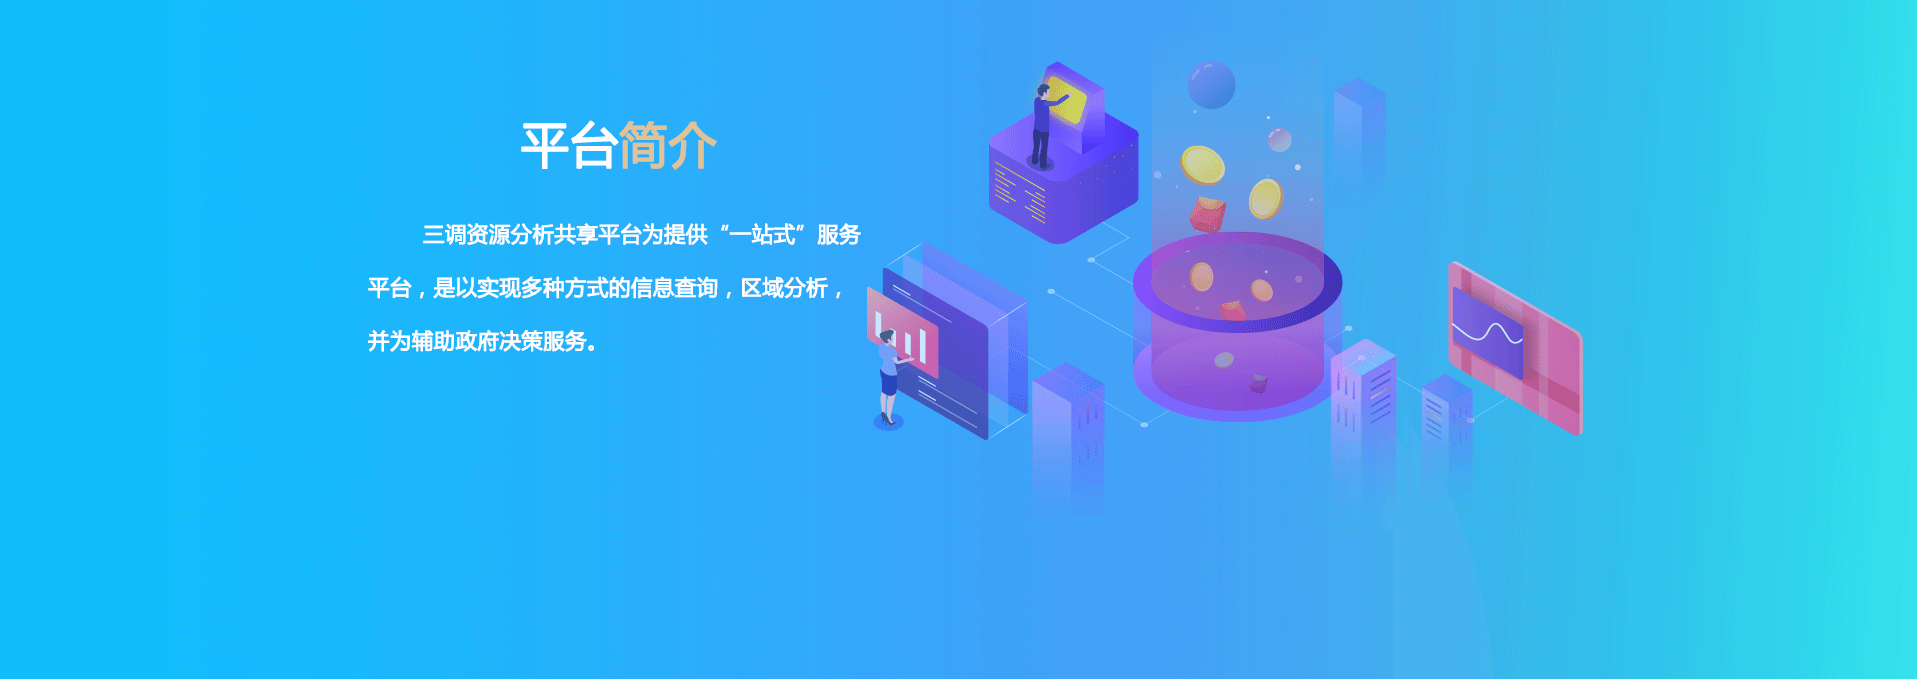
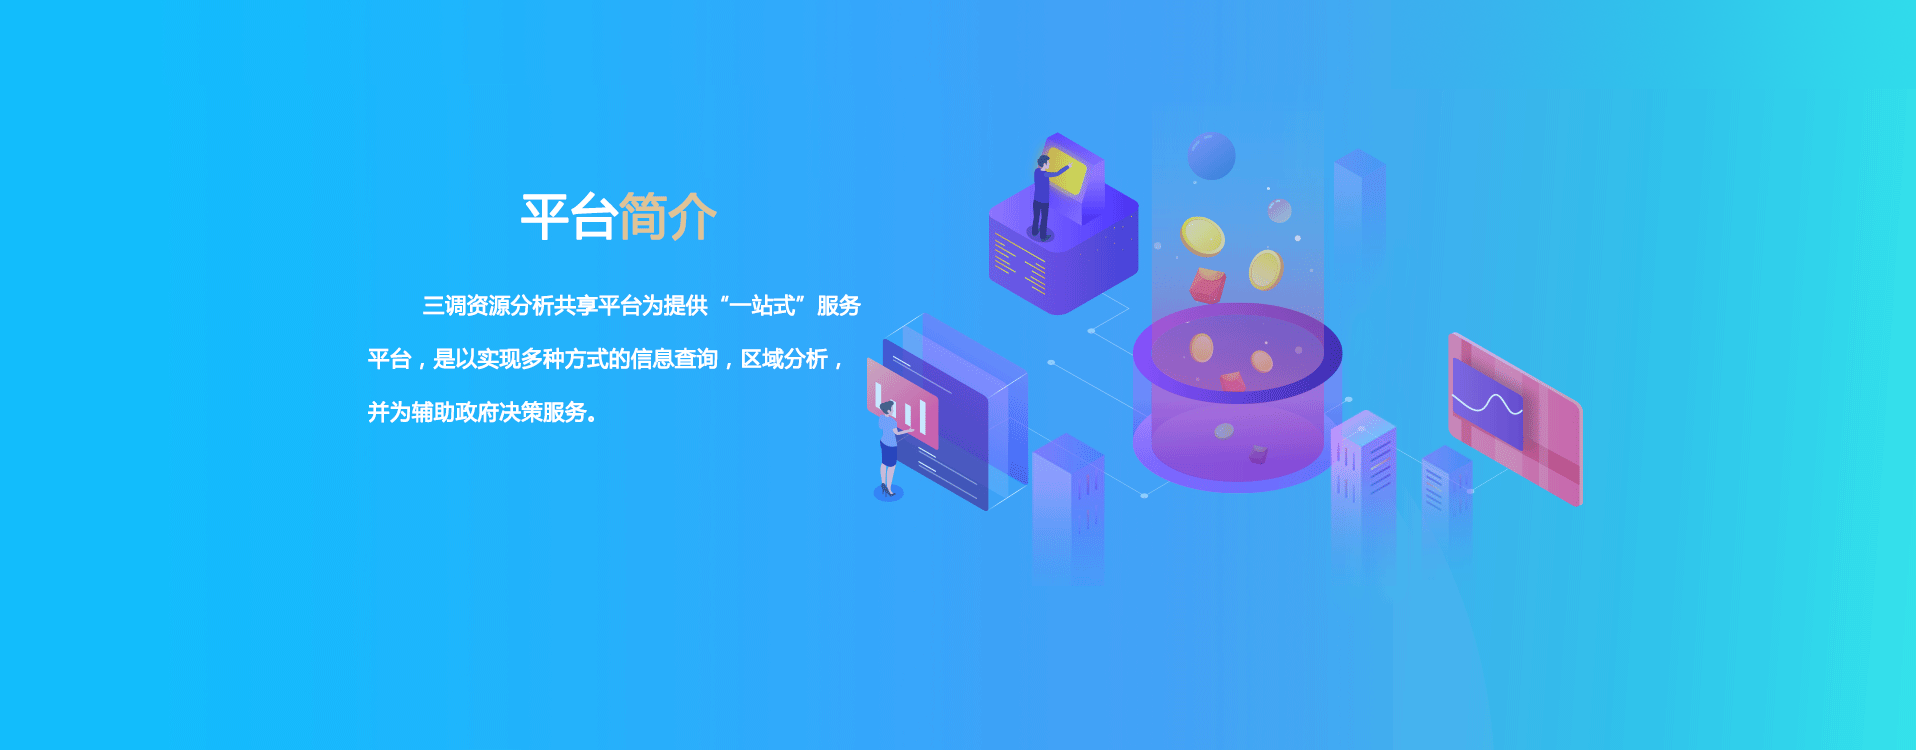
index

Changed region(s): [[0.1848, 0.0928, 0.8314, 0.6804], [0.9854, 0.0, 1.0, 1.0]]

diff --git a/jxx/js/index.js b/jxx/js/index.js
@@ -38,26 +38,6 @@ $("#login1").click(function () {
     window.location.href = "./login.html";
 });
 $("#time1").html(newTime());
-//获取新闻列表
-$.ajax({
-    url:config.newip + config.newport + '/arcgis/Other/GetNoticeList?istitle=1',
-    type: 'GET',
-    async: false,
-    success:function(data){
-       console.log(data.data);
-       let str='';
-       let tr = '';
-       for(let i=0,len=data.data.length;i<len;i++){
-         if(data.data[i].istitle == 0){
-            str+=`<div class="sum"><div class="data"><div class="day">${data.data[i].createtime.split('T')[0].split('-')[2]}</div><div class="year">${data.data[i].createtime.split('T')[0].split('-')[0]}-${data.data[i].createtime.split('T')[0].split('-')[1]}</div></div><img class="sum-img" src="./img/home__19.png" alt=""><div class="inf"><div class="inf-tilte">${data.data[i].title}</div><div class="inf-con">${data.data[i].content}</div></div></div>`;
-         }else{
-            tr+=`<img class='time-pc' src="./img/time.png"/>`;
-         }; 
-       };
-       $('#time-r').append(str);
-       $('#time-pc').append(tr);
-    }
-});
 $(".control").click(function(){
     if(jiancelogin()){
         if(this.className == "control one"){
@@ -97,9 +77,33 @@ $(".control").click(function(){
         window.location.href = "./login.html";
     }    
 });
+//获取新闻列表
+$.ajax({
+    url:config.newip + config.newport + '/arcgis/Other/GetNoticeList?istitle=1',
+    type: 'GET',
+    async: false,
+    success:function(data){
+       let str='';
+       let tr = '';
+       for(let i=0,len=data.data.length;i<len;i++){
+         if(data.data[i].titleimage == null){
+             data.data[i].titleimage = './img/time.png';
+         };
+         if(data.data[i].createtime == null){
+            data.data[i].createtime = '0000-00-00T00:00:00';
+         };
+         if(data.data[i].istitle == 0){
+            str+=`<div class="sum" Inhtml=''><div class="data"><div class="day">${data.data[i].createtime.split('T')[0].split('-')[2]}</div><div class="year">${data.data[i].createtime.split('T')[0].split('-')[0]}-${data.data[i].createtime.split('T')[0].split('-')[1]}</div></div><img class="sum-img" src="./img/home__19.png" alt=""><div class="inf"><div class="inf-tilte" title='${data.data[i].title}'>${data.data[i].title}</div><div class="inf-con" title='${data.data[i].content}'>${data.data[i].content}</div></div></div>`;
+         }else{
+            tr+=`<img class='time-pc' title='${data.data[i].title}' src="${data.data[i].titleimage}" inhtml=''/>`;
+         }; 
+       };
+       $('#time-r').append(str);
+       $('#time-pc').append(tr);
+    }
+});
 //头条新闻轮播图
 let len = $('.time-pc').length;
-console.log(len);
 let i = 0;
 $(".time-pc").eq(0).fadeIn(3000);
 setInterval(function(){
@@ -112,16 +116,24 @@ setInterval(function(){
         $(".time-pc").eq(i).fadeOut(3000);
         i=0;
     };
-},6000);
-
-
-
-
-
-
-
-
-
+},6005);
+//top轮播图
+$.ajax({
+    url:config.newip + config.newport + '/arcgis/Other/GetBannerList',
+    type: 'GET',
+    async: false,
+    success:function(data){
+        console.log(data)
+    }
+});
+//点击新闻打开
+$('.time-pc,.sum').on('click',function(){
+   $('#news').css('display','block');
+});
+//点击新闻关闭
+$('#off').on('click',function(){
+   $('#news').css('display','none');
+});
 });
 
 

diff --git a/jxx/index.html b/jxx/index.html
@@ -7,6 +7,18 @@
     <title>三调资源服务共享平台</title>
 </head>
 <body>
+    <!-- news弹窗 -->
+    <div id='news' style='position: fixed;height: 100%;width: 100%;background:rgba(0,0,0,0.4);z-index:20;top:0;display: none;'>
+        <div style="display: inline-block;height:80%;width: 1123.1px;position: absolute;background:#fff;top:10%;left:20%;">
+            <div style='background:linear-gradient(to right,#03B8F7,#1BE2B2);display: inline-block;height:58.1px;width: 100%;position: absolute;top:0;'>
+               <span style='position: absolute;font-size:x-large;color: #fff;top:22%;left:5%;'>通知内容</span>
+               <span id='off' style='position: absolute;font-size:x-large;color: #fff;top:28%;right:2%;cursor: pointer;'>X</span>
+            </div>
+            <div style='position: absolute;top:58.1px;height:93.2%;display: inline-block;width: 100%;'>
+            <!-- news内容 -->
+            </div>
+        </div>
+    </div>
     <div id="top">
         <img src="./img/home__07.png" alt="logo">
         <img src="./img/home__08.png" alt="">
@@ -22,7 +34,9 @@
         <div id="setting" title="大屏展示"></div>
         <div id="gb" title="退出登录"></div>
     </div>
-    <div id="img"></div>
+    <div id="img">
+        <img class='top_img' src="./img/home__04.png" alt="">
+    </div>
     <div id="control">
         <div class="control one"><img src="./img/one.png" alt=""><img class="text" src="./img/one-text.png" alt=""></div><div class="control two"><img src="./img/home_btn__08.png" alt=""><img class="text" src="./img/home_btn__18.png" alt=""></div><div class="control three"><img src="./img/home_btn__10.png" alt=""><img class="text" src="./img/home_btn__24.png" alt=""></div><div class="control four"><img src="./img/home_btn__12.png" alt=""><img class="text" src="./img/home_btn__21.png" alt=""></div>
     </div>

diff --git a/jxx/css/index.css b/jxx/css/index.css
@@ -11,13 +11,23 @@ body {
     user-select: none;
     overflow-x: hidden;
 }
+body,html{
+    height: 100%;
+}
 #img{
     height:786px;
-    width: 1903px;
-    background:url(../img/home__04.png) no-repeat;
+    width:1903px;
     position: absolute;
-    top:107px;
+    top:0px;
     z-index: -10;
+}
+.top_img{
+    height:100%;
+    width:100%;
+    position: absolute;
+    top:0px;
+    z-index: -10;
+    cursor: pointer;
 }
 #top{
     margin-top: 3px;
@@ -85,7 +95,8 @@ body {
     display: inline-block;
     width: 394px;
     height:280px; 
-    display: none; 
+    display: none;
+    cursor: pointer; 
 }
 #time-pc{  
     display: inline-block;
@@ -131,6 +142,7 @@ body {
 .sum{
     height: 100px;
     width: 610px;
+    cursor: pointer;
 }
 .sum-img{
     margin-left: 10px;
@@ -148,7 +160,11 @@ body {
     display: inline-block;
     color: #333333;
     font-size:large;
+    width:450px;
     font-weight: bold;
+    overflow:hidden;
+    text-overflow: ellipsis;
+    white-space:nowrap;
 }
 .inf-con{
     display: inline-block;
